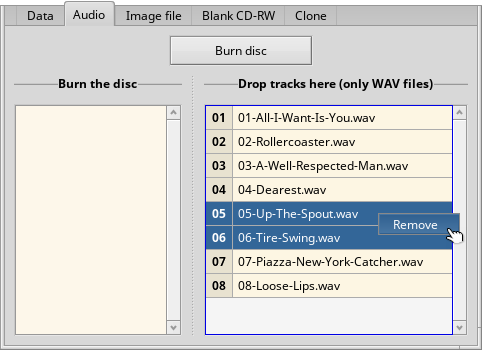
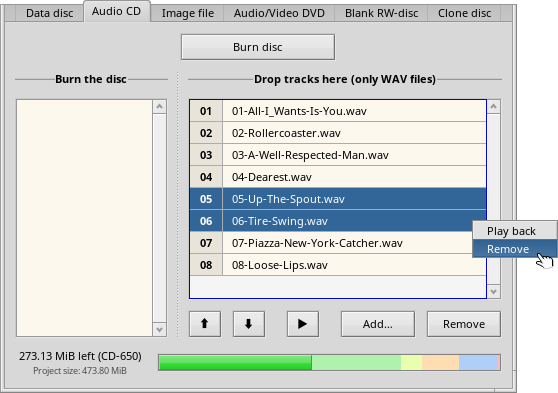
Updated documentation

diff --git a/Docs/ReadMe.html b/Docs/ReadMe.html
@@ -124,12 +124,11 @@ h3 {
 for <a href="http://www.haiku-os.org">Haiku</a><br /></p>
 <hr />
 <p id="index"><a href="#menus">Menus</a> - <a href="#session">Session Settings</a> - <a href="#sizebar">Size Bar</a> - <a href="#projectmodes">Project Modes</a><br />
-<a href="#tips">Tips &amp; Tricks</a> - <a href="#download">Download</a> - <a href="#bugs_feedback">Bug Reports &amp; Feedback</a></p>
+<a href="#tips">Tips &amp; Tricks</a> - <a href="#download">Download</a> - <a href="#bugs_feedback">Bug Reports &amp; Feedback</a> - <a href="#history">History</a></p>
 </div>
 <hr />
 <p><br /></p>
-<p>BurnItNow works with CDs and DVDs. It burns data and ISO images, and blanks rewritable RW media. You can create Audio CDs from drag &amp; dropped WAV files and burn pre-authored DVD-Audio and DVD-Video.<br />
-BurnItNow is a graphical frontend to the command line tools suite <i>cdrtools</i> by Jörg Schilling et al.</p>
+<p>BurnItNow works with CDs and DVDs. It burns data and ISO images, and blanks rewritable RW media. You can create Audio CDs from WAV files and burn pre-authored DVD-Audio and DVD-Video. BurnItNow is a graphical frontend to the command line tools suite <i>cdrtools</i> by Jörg Schilling et al.</p>
 
 <p>BurnItNow's window consists of four parts: the menu bar, the session settings, several project modes in tabs, and a bar indicating the currently used space at the bottom:</p>
 
@@ -141,14 +140,20 @@ BurnItNow is a graphical frontend to the command line tools suite <i>cdrtools</i
 <a href="#"><img src="images/up.png" style="border:none;float:right" alt="index" /></a>
 <a id="menus" name="menus">The Menus</a></h2>
 
-<p>The available menu items are few and easy to understand.<br />
-In the <span class="menu">App</span> menu you can open the <span class="menu">About...</span> panel and <span class="menu">Quit</span> the application.</p>
+<p>The available menu items are few and easy to understand.</p>
 
-<p><span class="menu">Settings</span> provide options related to cached images that are created when you build an image that is then burned to disc.</p>
-<ul><li><p><span class="menu">Set cache folder…</span> opens a file dialog in which you can set the folder that is used for those cached images. By default, it points to <span class="path">/system/cache/</span>, but you may want to change it to some other partition with more free space.<br />
-Make sure you have the volume with your cache folder mounted before starting to work with BurnItNow, that it has enough free space and isn't read-only.</p></li>
+<div align = "center">
+<img src="./images/menu.png" alt="The menu bar" />
+</div>
+
+<p>In the <span class="menu">App</span> menu you can open the <span class="menu">About...</span> panel and <span class="menu">Quit</span> the application.</p>
+
+<p><span class="menu">Cache</span> provides options related to cached image files that are created when you build an image that is then burned to disc.</p>
+<ul><li><p><span class="menu">Set cache folder…</span> opens a file dialog in which you can set the folder that is used for those cached images. By default, it points to <span class="path">/system/cache/</span>, but you may want to change it to some other partition with more free space.</p>
+<p>Make sure the volume with the cache folder mounted before starting to work with BurnItNow, that it has enough free space and isn't read-only.<br />
+When your project is to burn a data disk or DVD or to clone a disc, you need at least the amount of the data/disc size as free space on the cache folder's volume. Burning an Audio CD or an existing ISO image, or blanking a disc, doesn't use cache at all.</p></li>
 <li><p><span class="menu">Open cache folder</span> shows the cache folder in a Tracker window, in case you want to have a look or copy an image somewhere else for later use.</p></li>
-<li><p><span class="menu">Clear cache now</span> removes the image files from the cache folder.</p></li>
+<li><p><span class="menu">Clear cache now</span> removes all image files from the cache folder.</p></li>
 <li><p><span class="menu">Clear cache on quit</span> is a setting that can be toggled with a checkmark. Activated, it automatically clears the cache every time you quit BurnItNow.</p></li>
 </ul>
 <p>Under <span class="menu">Help</span> you find the <span class="menu">Usage instructions</span> you're currently reading and can visit the <span class="menu">Project website</span>, for example to report an issue.</p>
@@ -181,20 +186,23 @@ With BurnItNow's current feature set, you're probably good with always using DAO
 <a href="#"><img src="images/up.png" style="border:none;float:right" alt="index" /></a>
 <a id="sizebar" name="sizebar">The Size Bar</a></h2>
 
-<p>Before coming to the various <i>Project modes</i>, a quick word on the size bar that's at the bottom of the window (except in <i>Blank RW-disc mode</i>).</p>
+<p>Before coming to the various <i>Project modes</i>, a quick word on the size bar that's at the bottom of the window (except in <i>Blank RW-disc</i> mode).</p>
 
 <div align = "center">
 <img src="./images/sizebar.gif" alt="The Sizebar - Animated" />
 </div>
 
 <p>The size bar is color-coded for the most common mediums:<br />
-CD-650 (green), CD-700 (yellow), CD-800 (orange), CD-900 (blue), DVD5 (beige) and DVD9 (purple).</p>
-<p>It only shows the mediums relevant to the current mode: when you're on <i>AudioCD</i> tab you won't see the DVD sections, when on the <i>Audio/Video-DVD</i> tab you won't see all the CD sections.</p>
+CD-650 (<span style="color:#2AD72A">green</span>), CD-700 (<span style="color:#BDE100">yellow</span>), CD-800 (<span style="color:#FFB423">orange</span>), CD-900 (<span style="color:#239DDC">blue</span>), DVD5 (<span style="color:#CBB383">beige</span>) and DVD9 (<span style="color:#FF74E5">purple</span>).<br />
+It turns <span style="color:#FF6666">red</span> when the project size exceeds the maximum capacity of the largest medium (CD-900 for CD mediums, DVD9 for DVD mediums).</p>
+<p>It only shows the medium capacities that are relevant to the current mode: when you're on the <i>Audio CD</i> tab you won't see the DVD sections, when on the <i>Audio/Video-DVD</i> tab you won't see all the CD sections.</p>
 <p>Whenever you change your project, i.e. choose a folder to burn or drop another WAV file for an AudioCD, the size bar is updated.</p>
 
 <p>The color of the size indicating bar corresponds to the medium your project still fits on.</p>
-<p>The info box on the left always shows how much space is still left on the medium. If you're over the maximum capacity of the largest medium (CD-900 for CD mediums, DVD9 for DVD mediums), the bar turns red and shows how much you're over the limit.</p>
-<p>Hovering the mouse pointer over the info box shows the absolute size of the project.</p>
+<p><b>Note:</b> The size bar only shows a best estimate. It doesn't take into account the data in extended BFS attributes and there can be a slight size difference when copying data from another file system to ISO 9660.<br />
+After you've built an image, the bar is updated with the size of the resulting ISO image, which should then be pretty accurate.<br />
+Rest assured, though, at the latest when trying to burn the disc, the space is checked and if the data won't fit on the inserted disc, the writing is aborted before it's started.</p>
+<p>The info box on the left shows how much space is still left on the medium and the absolute size of your project (again, a best estimate until an actual image was built). If you're over the maximum capacity of the largest medium (CD-900 for CD mediums, DVD9 for DVD mediums), it shows by how much you're over the limit.</p>
 
 <h2>
 <a href="#"><img src="images/up.png" style="border:none;float:right" alt="index" /></a>
@@ -206,7 +214,7 @@ CD-650 (green), CD-700 (yellow), CD-800 (orange), CD-900 (blue), DVD5 (beige) an
 <div align = "center">
 <img src="./images/mode_data.png" alt="The Data disc mode" />
 </div>
-<p>In Data mode, you first use <span class="button">Choose folder</span> to select the folder that's to be burnt to disc. That folder has to be set up beforehand by copying files and folders to it. The folder's name will be used as the label for the disc.<br />
+<p>In Data disc mode, you first use <span class="button">Choose folder</span> to select the folder that's to be burnt to disc. That folder has to be set up beforehand by copying files and folders to it. The folder's name will be used as the default disc label.<br />
 Next you click <span class="button">Build image</span> to create an ISO image of that folder. Depending on the number of files and their size and the speed of your hard disk that may take some seconds.<br />
 Lastly, you check your session settings one more time, insert a blank disc, and click <span class="button">Burn disc</span> to start the writing.</p>
 
@@ -214,8 +222,9 @@ Lastly, you check your session settings one more time, insert a blank disc, and 
 <div align = "center">
 <img src="./images/mode_audio.png" alt="The Audio CD mode" />
 </div>
-<p>To burn an audio CD, you first drag &amp; drop all tracks into the view to the right. These have to be WAV files! Then you can re-order them by dragging them around until you're satisfied. Remove tracks by selecting them and either press <span class="key">DEL</span> or right-click and choose <span class="menu">Remove</span>.<br />
-You can change the ratio between the info view to the left and the tracks view to the right by dragging the splitter handle between them around. You can even collapse one of the views completely.</p>
+<p>To burn an audio CD, you first add all tracks by either drag &amp; dropping them on the window or from a file dialog after clicking <span class="button">Add...</span>. These have to be WAV files (16 bit, 1411 kbps)! You can re-order them by dragging them around or use the <span class="key">↑</span> / <span class="key">↓</span> buttons until you're satisfied. Remove tracks by selecting them and either press <span class="key">DEL</span> or right-click and choose <span class="menu">Remove</span>.</p>
+<p>A track is played back by double-clicking or pressing the <span class="key">►</span> play button. The selected track(s) will be sent to your preferred media player.</p>
+<p>You can change the ratio between the info view to the left and the tracks view to the right by dragging the splitter handle between them around. You can even collapse one of the views completely.</p>
 <p>For best compatibility to stand-alone players, select a speed of 4x.<br />
 Finally, check your session settings once more, insert a blank disc and click <span class="button">Burn disc</span>.</p>
 
@@ -229,9 +238,9 @@ Finally, check your session settings once more, insert a blank disc and click <s
 <div align = "center">
 <img src="./images/mode_dvd.png" alt="The Audio/Video DVD mode" />
 </div>
-<p>BurnItNow can burn standards conforming Audio-DVDs and Video-DVDs, but it has to be pre-authored first, i.e. there needs to be a folder containing an <span class="path">AUDIO_TS</span> and a <span class="path">VIDEO_TS</span> folder with the authored data.</p>
+<p>BurnItNow can burn standards conforming Audio-DVDs and Video-DVDs, but they have to be pre-authored first, i.e. there needs to be a folder containing an <span class="path">AUDIO_TS</span> and a <span class="path">VIDEO_TS</span> folder with the authored data.</p>
 <p>Then it works like described for Data discs.<br />
-You first use <span class="button">Choose folder</span> to select the folder containing VIDEO_TS and AUDIO_TS. The folder's name will be used as the label for the disc.<br />
+You first use <span class="button">Choose folder</span> to select the folder containing VIDEO_TS and AUDIO_TS. The folder's name will be used as the default label for the disc.<br />
 Next you click <span class="button">Build image</span> to create an ISO image of that folder. Depending on the size of your project and the speed of your hard disk that may take some seconds.<br />
 Lastly, you check your session settings one more time, insert a blank DVD, and click <span class="button">Burn disc</span> to start the writing.</p>
 
@@ -265,8 +274,8 @@ You start by inserting the disc to clone and click on <span class="button">Creat
 <a id="tips" name="tips">Tips &amp; Tricks</a></h2>
 <ul>
 <li><p>Data, Image and Audio/Video DVD mode: You can drag &amp; drop the folder/image to burn instead of using the <span class="button">Choose folder/image</span> button that opens the file dialog.</p></li>
-<li><p>Data, Image and Audio/Video DVD mode: Once a folder/image is selected, clicking on its path to the left of the buttons opens its location in Tracker.</p></li>
-<li><p>Audio CD mode: You can drag &amp; drop folders with WAVs too.</p></li>
+<li><p>Data, Image and Audio/Video DVD mode: Once a folder/image is selected, clicking on its path to the left of the buttons (or under the disc label) opens its location in Tracker.</p></li>
+<li><p>Audio CD mode: You can drag &amp; drop folders containing WAVs to add them all in one go.</p></li>
 <li><p>Audio CD mode: Use a speed of 4x for best compatibility with stand-alone players.</p></li>
 </ul>
 
@@ -279,6 +288,52 @@ You start by inserting the disc to clone and click on <span class="button">Creat
 <a href="#"><img src="images/up.png" style="border:none;float:right" alt="index" /></a>
 <a id="bugs_feedback" name="bugs_feedback">Bug Reports &amp; Feedback</a></h2>
 <p>Please use GitHub's <a class="printurl:after" href="https://github.com/HaikuArchives/BurnItNow/issues">issue tracker</a> if you experience unusual difficulties or would like to provide translations.</p>
+
+
+<h2>
+<a href="#"><img src="images/up.png" style="border:none;float:right" alt="index" /></a>
+<a id="history" name="history">History</a></h2>
+<p><b>1.2</b> - <i>2017-11-xx:</i></p>
+<ul>
+<li>Added mode for Audio/Video DVD.</li>
+<li>Added colorful bar to show project size and remaining free space.</li>
+<li>Cache folder location now settable by the user.</li>
+<li>Show progress with notifications.</li>
+<li>Add text box to edit the disc label.</li>
+<li>Add buttons to add /remove and sort audio tracks.</li>
+<li>Launch tracks in preffered media player.</li>
+<li>Added checks and alerts to warn of insufficient space on the cache volume or when the data won't fit on the inserted disc.</li>
+<li>Set a higher priority for the burning thread.</li>
+<li>Add localization for Spanish, Ukrainian.</li>
+<li>Bug fixes.</li>
+</ul>
+
+<p><b>1.1</b> - <i>2017-01-02:</i></p>
+<ul>
+<li>Improved GUI.</li>
+<li>Fix burning audio CDs.</li>
+<li>Use folder name as disc label.</li>
+<li>Accept more multiple WAV files per drag &amp; drop.</li>
+<li>Allow sorting tracks via drag &amp; drop.</li>
+<li>Only accept WAV files for Audio CDs.</li>
+<li>Allow drag &amp; drop for Data and Image modes.</li>
+<li>Open folders by clicking on the path area.</li>
+<li>Auto-scroll the output view.</li>
+<li>Add tool tips to blanking modes.</li>
+<li>Save settings.</li>
+<li>Rename cache image file names.</li>
+<li>Add documentation.</li>
+<li>Add German localization.</li>
+<li>Bug fixes.</li>
+</ul>
+
+<p><b>0.1.0</b> - <i>2014-12-11:</i></p>
+<ul>
+<li>First release after migration to HaikuArchives' github.</li>
+<li>Improved GUI.</li>
+<li>Added features: detecting devices, support for image creating and writing, blanking, cloning, audio CD support, drag &amp; drop of WAV files.</li>
+<li>Bug fixes.</li>
+</ul>
 
 </body>
 </html>
